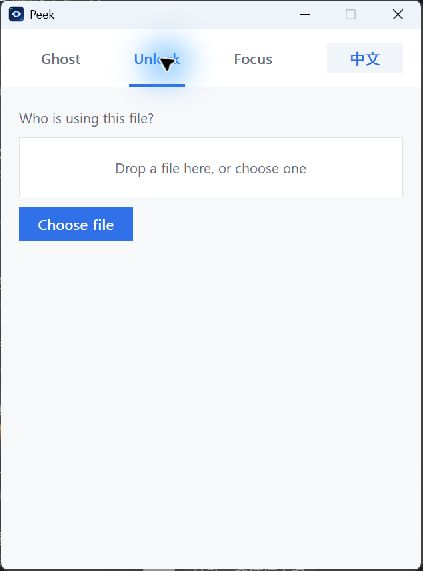
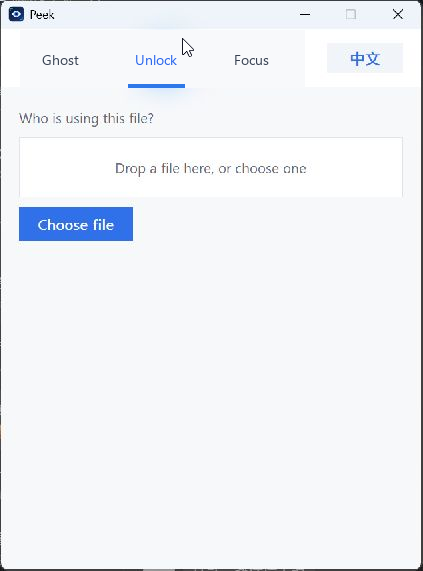
Polish documentation visuals

Changed region(s): [[0.3073, 0.0595, 0.461, 0.1786], [0.5532, 0.0893, 0.6454, 0.1191], [0.0922, 0.0893, 0.1844, 0.1191]]

diff --git a/scripts/generate-doc-assets.py b/scripts/generate-doc-assets.py
@@ -98,40 +98,70 @@ def make_demo_gif() -> None:
     )
 
 
-def make_social_preview(background_path: Path | None) -> None:
+def make_social_preview(_background_path: Path | None) -> None:
     width, height = 1280, 640
-    if background_path and background_path.exists():
-        background = ImageOps.fit(Image.open(background_path).convert("RGBA"), (width, height),
-                                  Image.Resampling.LANCZOS)
-    else:
-        background = Image.new("RGBA", (width, height), (7, 18, 39, 255))
-        draw = ImageDraw.Draw(background)
-        for x in range(width):
-            t = x / (width - 1)
-            draw.line((x, 0, x, height), fill=(7 + round(8 * t), 18 + round(28 * t), 39 + round(75 * t), 255))
-
-    overlay = Image.new("RGBA", (width, height), (0, 0, 0, 0))
-    ImageDraw.Draw(overlay).rectangle((0, 0, 760, height), fill=(4, 14, 31, 118))
-    background.alpha_composite(overlay)
+    background = Image.new("RGBA", (width, height), (245, 247, 250, 255))
     draw = ImageDraw.Draw(background)
-    icon = load("peek-icon.png").resize((102, 102), Image.Resampling.LANCZOS)
-    background.alpha_composite(icon, (72, 64))
-    draw.text((72, 205), "Peek", font=font(82, True), fill=(248, 251, 255))
-    draw.text((72, 311), "See what Windows won't tell you.", font=font(31), fill=(207, 224, 247))
 
-    labels = ["Ghost", "Unlock", "Focus"]
-    x = 72
-    for label in labels:
-        text_box = draw.textbbox((0, 0), label, font=font(22, True))
-        chip_width = text_box[2] - text_box[0] + 40
-        draw.rounded_rectangle((x, 386, x + chip_width, 436), radius=14,
-                               fill=(37, 99, 235, 235), outline=(75, 184, 255, 180))
-        draw.text((x + chip_width // 2, 411), label, font=font(22, True),
-                  fill=(255, 255, 255), anchor="mm")
-        x += chip_width + 16
-    draw.text((72, 528), "Native Win32  ·  Offline  ·  Single EXE  ·  Windows 10/11",
-              font=font(21), fill=(139, 177, 226))
-    paste_window(background, load("peek-focus-en.png"), (890, 54, 330, 532))
+    # Flat colors and real screenshots keep the design consistent with the app.
+    draw.rectangle((0, 0, 354, height), fill=(12, 20, 34, 255))
+    draw.rectangle((354, 0, 362, height), fill=(37, 99, 235, 255))
+
+    icon = load("peek-icon.png").resize((76, 76), Image.Resampling.LANCZOS)
+    background.alpha_composite(icon, (48, 46))
+    draw.text((144, 49), "Peek", font=font(47, True), fill=(248, 250, 252))
+    draw.text((48, 151), "A tiny native Windows utility.",
+              font=font(21), fill=(187, 200, 219))
+
+    features = [
+        ("Ghost", "What just flashed past?"),
+        ("Unlock", "Who is using this file?"),
+        ("Focus", "What UI is under the pointer?"),
+    ]
+    y = 218
+    for title, question in features:
+        draw.rectangle((48, y + 7, 54, y + 37), fill=(59, 130, 246))
+        draw.text((70, y), title, font=font(24, True), fill=(248, 250, 252))
+        draw.text((70, y + 34), question, font=font(16), fill=(157, 174, 199))
+        y += 92
+
+    draw.line((48, 529, 306, 529), fill=(48, 62, 82), width=1)
+    draw.text((48, 554), "Win32  ·  Offline  ·  Portable",
+              font=font(17), fill=(151, 168, 192))
+    draw.text((48, 585), "Windows 10 / 11  ·  x64",
+              font=font(17), fill=(151, 168, 192))
+
+    draw.text((402, 38), "Three questions. One window.",
+              font=font(34, True), fill=(24, 35, 52))
+    draw.text((402, 81), "Native Win32 utility for Windows 10 and 11.",
+              font=font(18), fill=(88, 101, 120))
+
+    cards = [
+        ("peek-ghost-en.png", "Ghost"),
+        ("peek-unlock-en.png", "Unlock"),
+        ("peek-focus-en.png", "Focus"),
+    ]
+    card_y = 124
+    card_width = 268
+    card_height = 462
+    for index, (image_name, title) in enumerate(cards):
+        x = 398 + index * 286
+        draw.rounded_rectangle(
+            (x, card_y, x + card_width, card_y + card_height),
+            radius=12,
+            fill=(255, 255, 255),
+            outline=(210, 216, 225),
+            width=1,
+        )
+        draw.text((x + 18, card_y + 17), title,
+                  font=font(21, True), fill=(37, 99, 235))
+        screenshot = load(image_name)
+        fitted = ImageOps.contain(screenshot, (236, 382), Image.Resampling.LANCZOS)
+        background.alpha_composite(
+            fitted,
+            (x + (card_width - fitted.width) // 2, card_y + 61),
+        )
+
     background.convert("RGB").save(IMAGES / "social-preview.png", optimize=True)
 
 

diff --git a/scripts/normalize-doc-screenshots.py b/scripts/normalize-doc-screenshots.py
@@ -1,0 +1,92 @@
+"""Normalize Peek documentation screenshots with the Windows system cursor.
+
+The script rebuilds the small tab strip consistently and composites the real
+Windows Aero arrow from the local system cursor file.  It is safe to rerun.
+"""
+
+from pathlib import Path
+import struct
+
+from PIL import Image, ImageDraw, ImageFont
+
+
+ROOT = Path(__file__).resolve().parents[1]
+IMAGES = ROOT / "docs" / "images"
+CURSOR_PATH = Path("C:/Windows/Cursors/aero_arrow.cur")
+FONT_REGULAR = Path("C:/Windows/Fonts/segoeui.ttf")
+FONT_CJK = Path("C:/Windows/Fonts/msyh.ttc")
+
+
+def load_cursor(size: int = 32) -> Image.Image:
+    """Read one BGRA frame from a Windows .cur file, preserving its alpha."""
+    data = CURSOR_PATH.read_bytes()
+    reserved, cursor_type, count = struct.unpack_from("<HHH", data, 0)
+    if reserved != 0 or cursor_type != 2:
+        raise ValueError(f"Unsupported cursor file: {CURSOR_PATH}")
+
+    selected = None
+    for index in range(count):
+        entry = struct.unpack_from("<BBBBHHII", data, 6 + index * 16)
+        width = entry[0] or 256
+        height = entry[1] or 256
+        if width == size and height == size:
+            selected = entry
+            break
+    if selected is None:
+        raise ValueError(f"{CURSOR_PATH} does not contain a {size}px cursor")
+
+    image_offset = selected[-1]
+    header_size, width, doubled_height, planes, bits_per_pixel, compression = (
+        struct.unpack_from("<IiiHHI", data, image_offset)
+    )
+    height = doubled_height // 2
+    if header_size < 40 or planes != 1 or bits_per_pixel != 32 or compression != 0:
+        raise ValueError("Expected an uncompressed 32-bit Windows cursor frame")
+
+    pixel_offset = image_offset + header_size
+    pixel_bytes = data[pixel_offset:pixel_offset + width * height * 4]
+    cursor = Image.frombytes("RGBA", (width, height), pixel_bytes, "raw", "BGRA")
+    return cursor.transpose(Image.Transpose.FLIP_TOP_BOTTOM)
+
+
+def normalize_tabs(
+    image_name: str,
+    labels: tuple[str, str, str],
+    active_index: int,
+    cursor_x: int,
+) -> None:
+    path = IMAGES / image_name
+    image = Image.open(path).convert("RGBA")
+    draw = ImageDraw.Draw(image)
+
+    # Repaint only the tab area; the rest remains a real application capture.
+    draw.rectangle((20, 30, 304, 87), fill=(248, 249, 251, 255))
+    centers = (61, 156, 252)
+    font_path = FONT_CJK if any(any(ord(char) > 127 for char in label) for label in labels) else FONT_REGULAR
+    tab_font = ImageFont.truetype(str(font_path), 14)
+    for index, (center, label) in enumerate(zip(centers, labels)):
+        color = (37, 99, 235, 255) if index == active_index else (55, 65, 81, 255)
+        draw.text((center, 59), label, font=tab_font, fill=color, anchor="mm")
+
+    active_center = centers[active_index]
+    draw.rectangle((active_center - 28, 84, active_center + 28, 87),
+                   fill=(47, 120, 232, 255))
+
+    # The cursor is the actual Windows Aero arrow, positioned beside the label
+    # so the control text remains readable.
+    image.alpha_composite(load_cursor(), (cursor_x, 38))
+    image.convert("RGB").save(path, optimize=True)
+
+
+def main() -> None:
+    english = ("Ghost", "Unlock", "Focus")
+    chinese = ("闪现", "解锁", "探查")
+    positions = (83, 182, 273)
+    for index, name in enumerate(("peek-ghost-en.png", "peek-unlock-en.png", "peek-focus-en.png")):
+        normalize_tabs(name, english, index, positions[index])
+    for index, name in enumerate(("peek-ghost.png", "peek-unlock.png", "peek-focus.png")):
+        normalize_tabs(name, chinese, index, positions[index])
+
+
+if __name__ == "__main__":
+    main()
